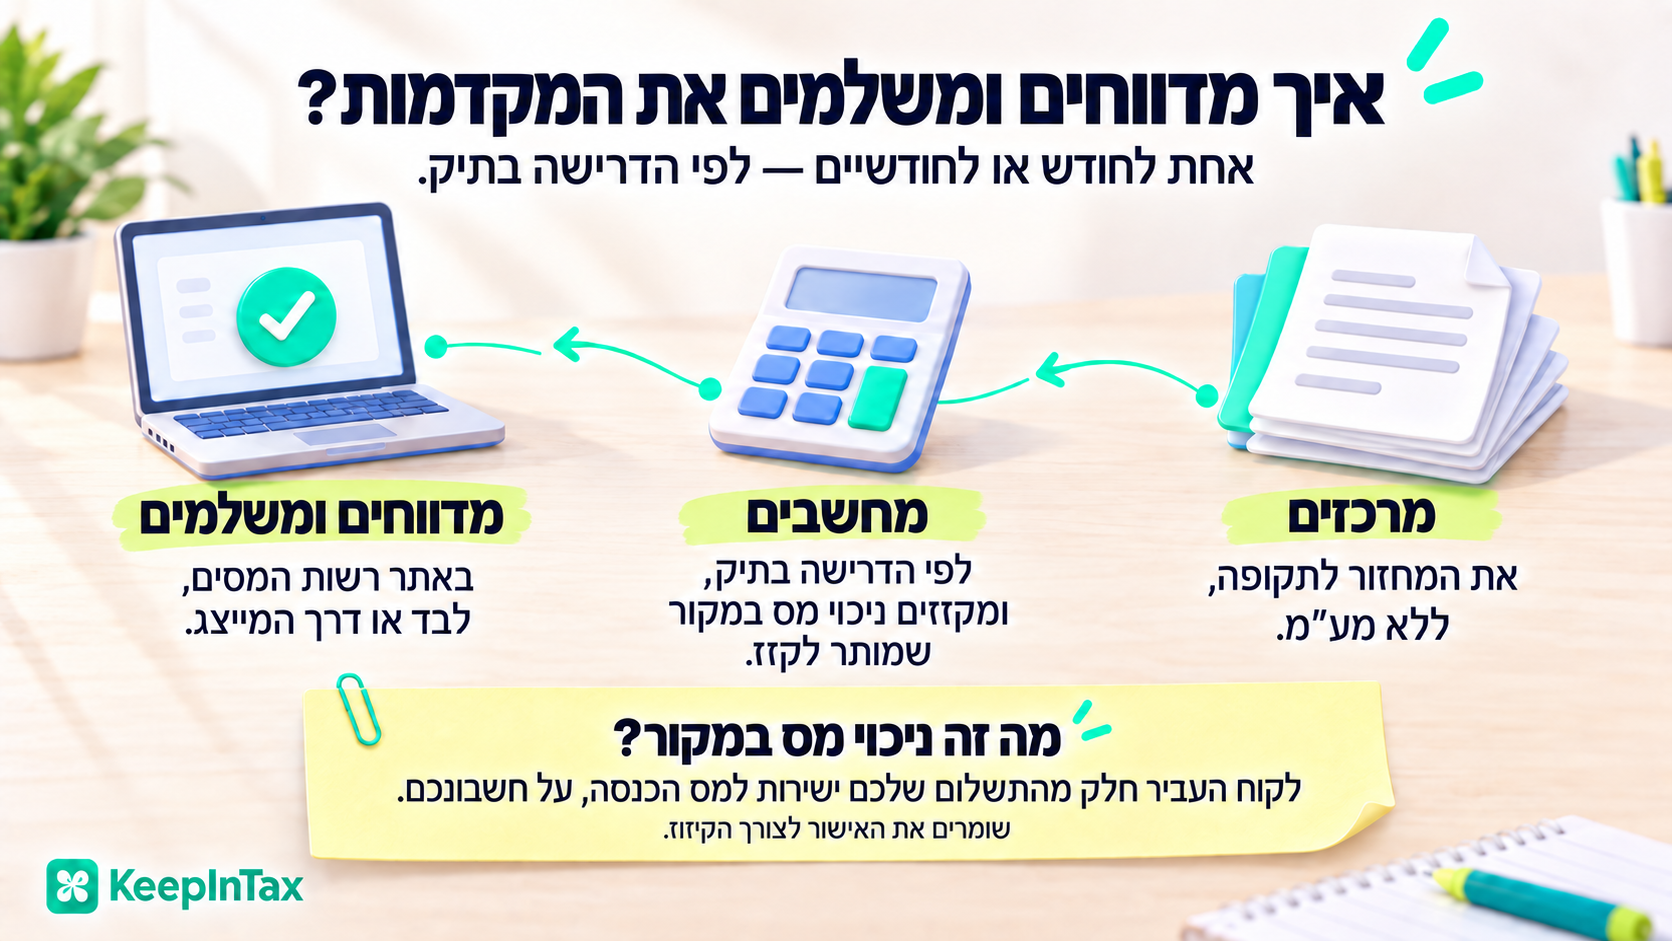
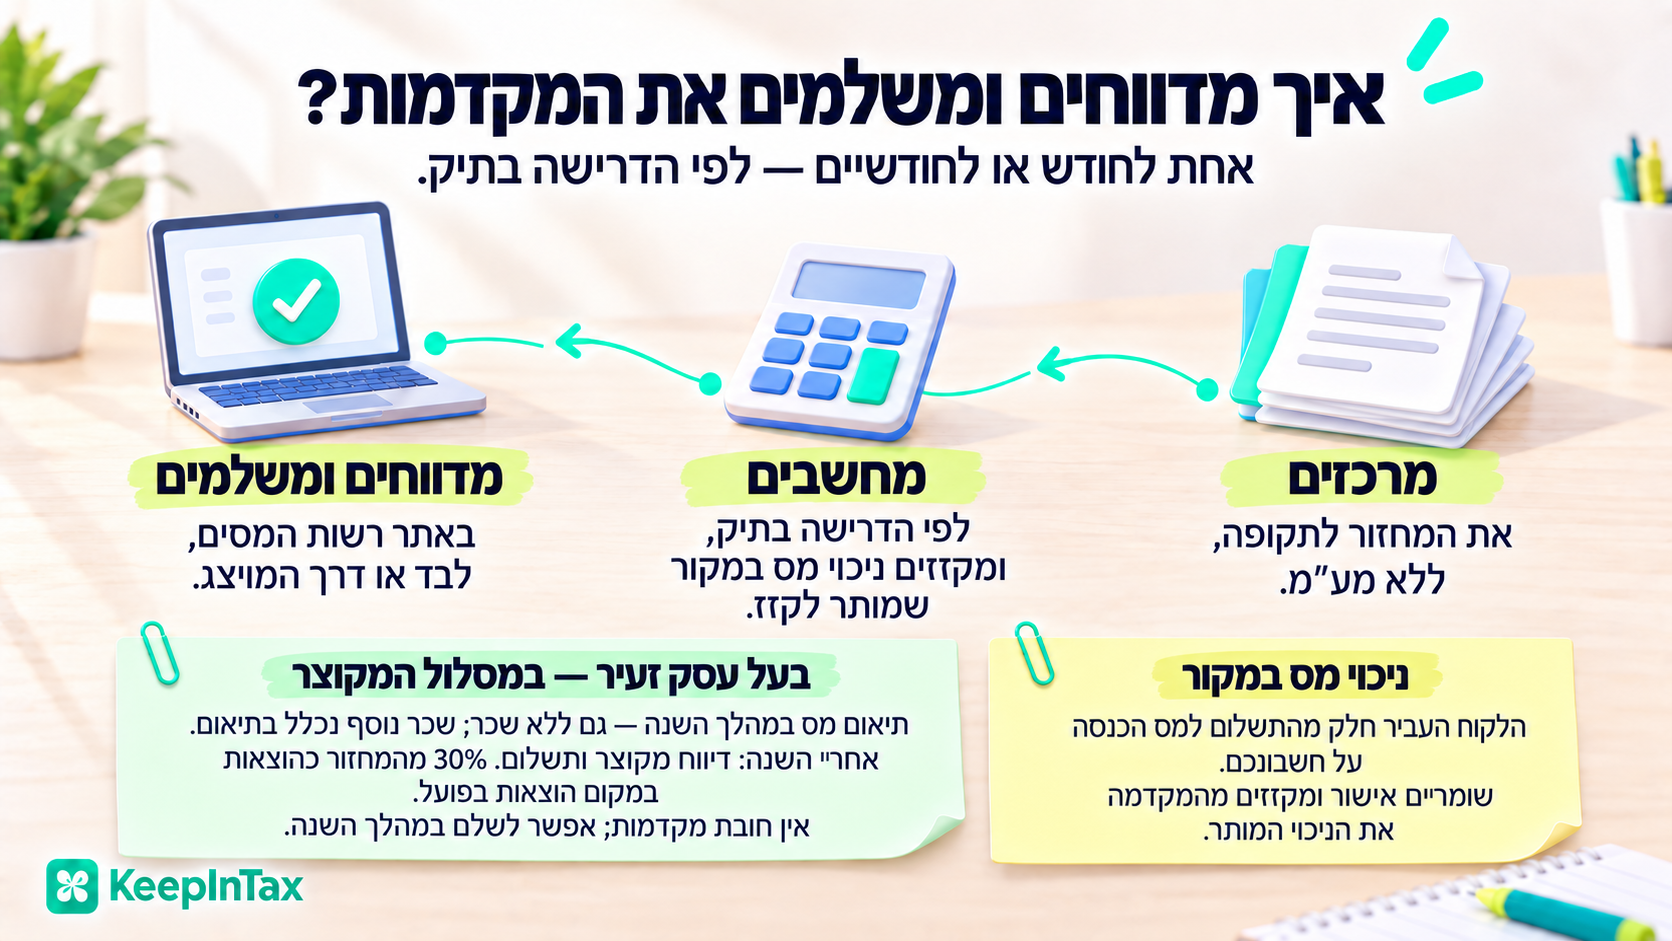
Consolidate advance payment notes and set income sliders LTR

diff --git a/frontend/src/app/pages/admin-panel/self-employed-guide.content.ts b/frontend/src/app/pages/admin-panel/self-employed-guide.content.ts
@@ -207,15 +207,9 @@ export const SELF_EMPLOYED_GUIDE_SLIDES: GuideSlide[] = [
     id: 'advances-payment', layout: 'approved-artwork',
     title: 'איך מדווחים ומשלמים את המקדמות?',
     artwork: '/assets/self-employed-guide/advances-payment-approved.png',
-    artworkAlt: 'אחת לחודש או לחודשיים לפי הדרישה בתיק: מרכזים מחזור ללא מע״מ, מחשבים לפי הדרישה ומקזזים ניכוי במקור שמותר לקזז, מדווחים ומשלמים באתר רשות המסים לבד או דרך המייצג. ניכוי במקור הוא תשלום שהלקוח העביר למס הכנסה על חשבונכם. שומרים את האישור.',
-    sources: [{ label: 'דיווח ותשלום מקדמות', url: 'https://www.gov.il/he/service/itc-payment-online-incometax' }],
-  },
-  {
-    id: 'micro-reporting', layout: 'approved-artwork',
-    title: 'עסק זעיר? יש מסלול מקוצר',
-    artwork: '/assets/self-employed-guide/micro-reporting-approved.png',
-    artworkAlt: 'למי שעומד בתנאי המסלול המקוצר: במהלך השנה עושים תיאום מס, גם אם יש רק הכנסה מהעסק, וכוללים שכר אם יש. אחרי השנה מגישים דיווח מקוצר ומשלמים מס. 30% מהמחזור כהוצאות במקום ההוצאות בפועל. אין חובת מקדמות במסלול המקוצר; אפשר לשלם במהלך השנה.',
+    artworkAlt: 'אחת לחודש או לחודשיים לפי הדרישה בתיק: מרכזים מחזור ללא מע״מ, מחשבים לפי הדרישה ומקזזים ניכוי במקור שמותר לקזז, מדווחים ומשלמים באתר רשות המסים לבד או דרך המייצג. שתי הערות בתחתית: ניכוי מס במקור — הלקוח העביר חלק מהתשלום למס הכנסה על חשבונכם; שומרים אישור ומקזזים מהמקדמה את הניכוי המותר. בעל עסק זעיר במסלול המקוצר — עושים תיאום מס במהלך השנה גם ללא שכר, וכוללים שכר נוסף אם יש; אחרי השנה דיווח מקוצר ותשלום, עם 30% מהמחזור כהוצאות במקום הוצאות בפועל. אין חובת מקדמות במסלול המקוצר; אפשר לשלם במהלך השנה.',
     sources: [
+      { label: 'דיווח ותשלום מקדמות', url: 'https://www.gov.il/he/service/itc-payment-online-incometax' },
       { label: 'דיווח מקוצר', url: 'https://www.gov.il/he/service/report-and-payment-for-micro-business-owner' },
       { label: 'מקדמות לעסק זעיר', url: 'https://www.gov.il/he/service/request-down-payment-for-micro-business-owner' },
     ],

diff --git a/frontend/src/app/pages/admin-panel/self-employed-guide.component.spec.ts b/frontend/src/app/pages/admin-panel/self-employed-guide.component.spec.ts
@@ -42,9 +42,9 @@ describe('SelfEmployedGuideComponent', () => {
       }
     });
   }
-  it('assigns all 28 slides exactly once and opens income at combined income', () => {
+  it('assigns all 27 slides exactly once and opens income at combined income', () => {
     const ids = [...component.mainIds, ...Object.values(component.chapterIds).flat()];
-    expect(new Set(ids).size).toBe(28);
+    expect(new Set(ids).size).toBe(27);
     expect([...ids].sort()).toEqual(SELF_EMPLOYED_GUIDE_SLIDES.map(s => s.id).sort());
     component.openChapter('income');
     expect(component.currentSlide.id).toBe('income-combination');
@@ -56,14 +56,16 @@ describe('SelfEmployedGuideComponent', () => {
     component.openChapter('income');
     expect(component.slides.filter(slide => slide.layout === 'tax-simulator').length).toBe(1);
     expect(component.slides[1].id).toBe('advances-introduction');
-    expect(component.slides.length).toBe(6);
+    expect(component.slides.length).toBe(5);
     expect(component.slides[2].id).toBe('advances-calculation');
     expect(component.slides[2].artworkAlt).toContain('אפשר לבקש עדכון מקדמות');
     expect(component.slides[3].id).toBe('advances-payment');
+    expect(component.slides[3].artworkAlt).toContain('שתי הערות בתחתית');
+    expect(component.slides[3].artworkAlt).toContain('בעל עסק זעיר במסלול המקוצר');
     for (let i = 1; i < component.slides.length; i++) component.nextSlide();
     expect(component.currentSlide.id).toBe('tax-simulator');
     component.previousSlide();
-    expect(component.currentSlide.id).toBe('micro-reporting');
+    expect(component.currentSlide.id).toBe('advances-payment');
     component.nextSlide();
     component.nextSlide();
     expect(component.currentSlide.id).toBe('tax-authorities');

diff --git a/frontend/src/app/pages/admin-panel/self-employed-guide.component.ts b/frontend/src/app/pages/admin-panel/self-employed-guide.component.ts
@@ -19,7 +19,7 @@ export class SelfEmployedGuideComponent {
   @ViewChild('presentationRoot') presentationRoot?: ElementRef<HTMLElement>;
 
   readonly chapterIds = {
-    income: ['income-combination', 'advances-introduction', 'advances-calculation', 'advances-payment', 'micro-reporting', 'tax-simulator'],
+    income: ['income-combination', 'advances-introduction', 'advances-calculation', 'advances-payment', 'tax-simulator'],
     vat: ['vat-introduction', 'vat-calculation'],
     ni: ['ni-status', 'ni-payment', 'ni-calculator'],
   };

diff --git a/frontend/src/app/pages/admin-panel/self-employed-tax-simulator.component.scss b/frontend/src/app/pages/admin-panel/self-employed-tax-simulator.component.scss
@@ -225,6 +225,7 @@ h2 {
 }
 
 .range-field input {
+  direction: ltr;
   grid-column: 1 / -1;
   width: 100%;
   accent-color: var(--green);

diff --git a/docs/marketing/income-tax-guide.md b/docs/marketing/income-tax-guide.md
@@ -1,5 +1,20 @@
 # Income Tax guide — approved content and artwork
 
+## 2026-10-03 payment notes and slider direction
+
+Removed `micro-reporting` from content and chapter navigation. Income now has
+five slides (17 main, 27 total); payment precedes the final calculator directly.
+Payment artwork retains the three steps, with two bottom notes: withholding
+and the qualifying micro-business route (coordination including salary, shortened
+report/payment, 30% turnover deduction instead of actual expenses, optional advances).
+Sources and accessible copy are consolidated on `advances-payment`.
+Built-in image edit `exec-a547e970-c5b8-422c-91fd-83bea6308440.png` was copied
+losslessly to `frontend/src/assets/self-employed-guide/advances-payment-approved.png`.
+Prompt: preserve title, subtitle, three steps, palette and logo; replace the single
+footer with two readable notes, yellow withholding and mint micro-business.
+Unused micro-business artwork is retained for history. All seven income calculator
+sliders now increase left-to-right; Hebrew label direction and calculations unchanged.
+
 ## 2026-10-03 consolidated advances guidance
 
 Removed `advances-adjustment` from the slide model and chapter navigation.

diff --git a/frontend/src/app/pages/admin-panel/AGENTS.md b/frontend/src/app/pages/admin-panel/AGENTS.md
@@ -18,7 +18,7 @@ Internal admin console (tabbed) for staff to manage clients dashboard, the unifi
 
 ## Main flows
 
-- Income chapter now has six slides: separate `advances-adjustment` screen removed; slide 3 calculation artwork includes a short note about requesting updated advances after material business changes. 17 main/28 total screens; final calculator still returns to the authorities hub. Historical counts below are superseded.
+- Income chapter now has five slides: separate `advances-adjustment` and `micro-reporting` screens removed. Slide 3 includes requesting updated advances after material business changes; slide 4 payment artwork ends with withholding and micro-business notes. 17 main/27 total screens; final calculator returns to the authorities hub. Its seven sliders increase left-to-right while Hebrew labels retain RTL. Historical counts below are superseded.
 
 - Income chapter slide 3 artwork omits the small illustrative/VAT caption as requested on 2026-10-03. Same asset path and contain rendering; calculation and example unchanged. Provenance and retained assumptions: `docs/marketing/income-tax-guide.md`.
 
